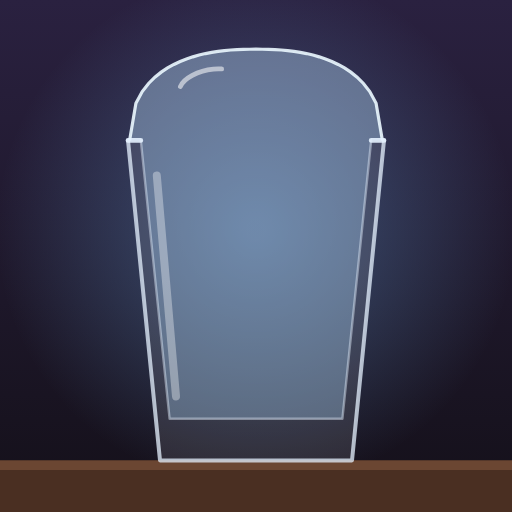
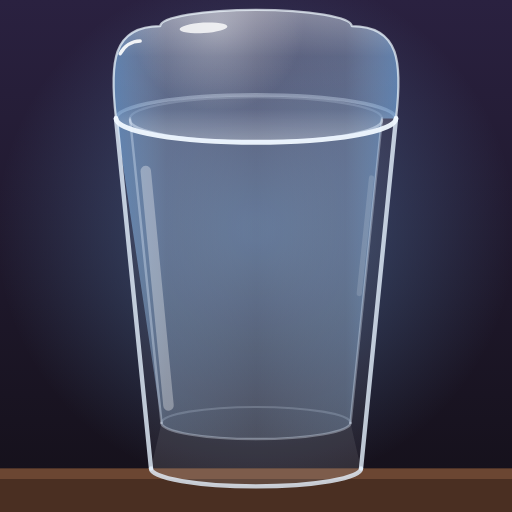
WIP: 表面張力の見た目をリアルに
Claude-Session: https://claude.ai/code/session_014s4K7kJiW8B1DqkZ9hQS7v

Changed region(s): [[0.0, 0.0, 1.0, 0.9688]]

diff --git a/games/vodka-brim/index.html b/games/vodka-brim/index.html
@@ -409,7 +409,7 @@
 
     // ---------- 描画 ----------
     const VW = 400, VH = 520;   // 仮想座標
-    const RIM = 230, BASE = 430, K = 6, K2 = 19; // 縁のy、底のy、縁より下/上の 1mm の大きさ
+    const RIM = 230, BASE = 430, K = 6, K2 = 12; // 縁のy、底のy、縁より下/上の 1mm の大きさ
     function sizeCanvas() {
       const r = stage.getBoundingClientRect(), dpr = window.devicePixelRatio || 1;
       cv.width = Math.max(1, Math.round(r.width * dpr)); cv.height = Math.max(1, Math.round(r.height * dpr));
@@ -436,7 +436,8 @@
       g.fillStyle = '#6b4632'; g.fillRect(-padX, BASE, VW + padX * 2, 8);
 
       const dying = phase === 'spill' || (phase === 'result' && loser >= 0);
-      drawGlassWithLiquid(g, time);
+      // あふれたら盛り上がりがしぼんで縁の高さに戻る
+      drawGlassWithLiquid(g, time, dying ? { level: Math.max(0, level * (1 - deathT / 0.45)), noWobble: true } : {});
       if (dying) drawSpill(g, deathT);
       drawBottle(g);
       if (dying) drawDead(g, deathT);
@@ -451,71 +452,137 @@
       }
     }
 
-    // グラスの内側：y での左右の x
-    const innerHalf = y => 54 + (72 - 54) * (404 - y) / (404 - RIM);
+    // ---------- グラスと液体（少し上から見下ろした形） ----------
+    const E = 0.17;                          // 楕円のつぶれ具合（見下ろす角度）
+    const OUT_T = 80, OUT_B = 60;            // 外側の半幅（縁・底）
+    const IN_T = 72, IN_B = 54, IN_Y = 404;  // 内側の半幅（縁・底）と内底のy
+    const innerHalf = y => IN_B + (IN_T - IN_B) * (IN_Y - y) / (IN_Y - RIM);
+    // 楕円：0=右, PI/2=手前, PI=左, 3PI/2=奥
+    const ell = (g, cy, rx, a0, a1, ccw = false) => g.ellipse(200, cy, rx, rx * E, 0, a0, a1, ccw);
+    function liquidGrad(g) {
+      // ふちが濃く、まん中が薄い（光の屈折で端が暗く見える）
+      const lg = g.createLinearGradient(200 - OUT_T, 0, 200 + OUT_T, 0);
+      lg.addColorStop(0, 'rgba(120,175,230,.62)'); lg.addColorStop(0.18, 'rgba(185,220,252,.30)');
+      lg.addColorStop(0.5, 'rgba(215,236,255,.20)'); lg.addColorStop(0.82, 'rgba(185,220,252,.30)');
+      lg.addColorStop(1, 'rgba(120,175,230,.62)');
+      return lg;
+    }
+    // 縁より上の液面：上はほぼ平ら、肩は丸く、縁の外へ少しはみ出す
+    function domeShape(lv, w, time) {
+      const H = Math.max(0, lv) * K2;
+      const R = Math.min(46, 6 + H * 1.7);                         // 肩の丸み
+      const o = H * 0.07 + w * (1.8 + Math.sin(time * 31) * 1.2);   // 縁からのはみ出し
+      const yt = RIM - H + w * Math.sin(time * 21) * 1.0;
+      const rt = OUT_T - R * 0.55;                                  // 平らな上面の半幅
+      return { H, R, o, yt, rt };
+    }
     function drawGlassWithLiquid(g, time, opt = {}) {
-      const cx = opt.cx ?? 200, lv = opt.level ?? level;
-      g.save(); g.translate(cx - 200, 0);
+      const lv = opt.level ?? level;
+      const hasLiquid = !!game || opt.level !== undefined;
       const w = opt.noWobble ? 0 : wobble(lv);
-      // 液体
-      g.fillStyle = 'rgba(190,225,255,.38)';
-      g.strokeStyle = 'rgba(235,248,255,.9)'; g.lineWidth = 2;
-      if (game || opt.level !== undefined) {
-        if (lv < 0) {
-          const y = RIM - lv * K;
-          if (y < 404) {
-            g.beginPath();
-            g.moveTo(200 - innerHalf(y), y); g.lineTo(200 + innerHalf(y), y);
-            g.lineTo(200 + 54, 404); g.lineTo(200 - 54, 404); g.closePath(); g.fill();
-            // メニスカス（壁ぎわで少し上がる）
-            g.beginPath(); g.moveTo(200 - innerHalf(y), y - 3);
-            g.quadraticCurveTo(200 - innerHalf(y) + 10, y, 200, y);
-            g.quadraticCurveTo(200 + innerHalf(y) - 10, y, 200 + innerHalf(y), y - 3); g.stroke();
-          }
-        } else {
-          // 縁より上：ぷっくりした山
-          const h = lv * K2, half = 79;
-          const jig = (x) => w * (Math.sin(time * 23 + x * 0.09) * 2.2 + Math.sin(time * 37 - x * 0.05) * 1.4);
-          g.beginPath();
-          g.moveTo(200 - 54, 404); g.lineTo(200 - 72, RIM);
-          for (let i = 0; i <= 40; i++) {
-            const u = -1 + i / 20, x = 200 + u * half;
-            const k = Math.pow(Math.max(0, 1 - Math.pow(Math.abs(u), 2.4)), 1 / 2.4);
-            g.lineTo(x, RIM - (h + jig(x) * (h > 4 ? 1 : 0)) * k * (1 + w * 0.04 * Math.sin(time * 19)));
-          }
-          g.lineTo(200 + 72, RIM); g.lineTo(200 + 54, 404); g.closePath(); g.fill();
-          g.beginPath();
-          for (let i = 0; i <= 40; i++) {
-            const u = -1 + i / 20, x = 200 + u * half;
-            const k = Math.pow(Math.max(0, 1 - Math.pow(Math.abs(u), 2.4)), 1 / 2.4);
-            const y = RIM - (h + jig(x) * (h > 4 ? 1 : 0)) * k * (1 + w * 0.04 * Math.sin(time * 19));
-            i ? g.lineTo(x, y) : g.moveTo(x, y);
-          }
-          g.stroke();
-          // ハイライト
-          if (h > 6) {
-            g.strokeStyle = 'rgba(255,255,255,.55)'; g.lineWidth = 3; g.lineCap = 'round';
-            g.beginPath(); g.ellipse(200 - 30, RIM - h * 0.62, 18, Math.max(2, h * 0.15), -0.25, Math.PI * 1.1, Math.PI * 1.7); g.stroke();
+      g.save(); g.lineJoin = 'round'; g.lineCap = 'round';
+
+      // --- グラスの奥側 ---
+      g.fillStyle = 'rgba(255,255,255,.05)';
+      g.beginPath(); g.moveTo(200 - OUT_T, RIM); g.lineTo(200 - OUT_B, BASE); ell(g, BASE, OUT_B, Math.PI, 0, true);
+      g.lineTo(200 + OUT_T, RIM); ell(g, RIM, OUT_T, 0, Math.PI, true); g.fill();
+      g.strokeStyle = 'rgba(230,242,255,.35)'; g.lineWidth = 2;
+      g.beginPath(); ell(g, RIM, OUT_T, Math.PI, Math.PI * 2); g.stroke();
+      g.strokeStyle = 'rgba(230,242,255,.2)'; g.lineWidth = 1.2;
+      g.beginPath(); ell(g, RIM, IN_T, Math.PI, Math.PI * 2); g.stroke();
+      g.beginPath(); ell(g, IN_Y, IN_B, Math.PI, Math.PI * 2); g.stroke();
+
+      // --- 液体 ---
+      if (hasLiquid && lv < 0) {
+        const y = RIM - lv * K;
+        if (y < IN_Y - 1) {
+          const rx = innerHalf(y);
+          g.fillStyle = liquidGrad(g);
+          g.beginPath(); g.moveTo(200 - rx, y); ell(g, y, rx, Math.PI, Math.PI * 2);
+          g.lineTo(200 + IN_B, IN_Y); ell(g, IN_Y, IN_B, 0, Math.PI); g.closePath(); g.fill();
+          // 液面（上から見える面）
+          g.fillStyle = 'rgba(225,242,255,.16)';
+          g.beginPath(); ell(g, y, rx, 0, Math.PI * 2); g.fill();
+          // メニスカス：壁ぎわで液が少しはい上がり、光る輪になる
+          const m = clamp(-lv / 0.8, 0.2, 1);
+          g.strokeStyle = `rgba(240,250,255,${0.6 * m})`; g.lineWidth = 1.6;
+          g.beginPath(); ell(g, y - 1.5 * m, rx, 0, Math.PI * 2); g.stroke();
+          g.strokeStyle = `rgba(240,250,255,${0.18 * m})`; g.lineWidth = 3;
+          g.beginPath(); ell(g, y, rx - 5, Math.PI * 1.1, Math.PI * 1.9); g.stroke();
+        }
+      } else if (hasLiquid) {
+        const d = domeShape(lv, w, time);
+        // 盛り上がりの輪郭（左の肩 → 奥 → 右の肩）
+        const domePath = () => {
+          g.moveTo(200 - OUT_T, RIM);
+          g.bezierCurveTo(200 - OUT_T - d.o, RIM - d.H * 0.6, 200 - d.rt - d.R * 0.6, d.yt, 200 - d.rt, d.yt);
+          ell(g, d.yt, d.rt, Math.PI, Math.PI * 2);
+          g.bezierCurveTo(200 + d.rt + d.R * 0.6, d.yt, 200 + OUT_T + d.o, RIM - d.H * 0.6, 200 + OUT_T, RIM);
+        };
+        // グラスの中と盛り上がりを1つの形で塗る（重ね塗りで濃くならないように）
+        g.fillStyle = liquidGrad(g);
+        g.beginPath(); g.moveTo(200 - IN_B, IN_Y); g.lineTo(200 - IN_T, RIM);
+        domePath();
+        g.lineTo(200 + IN_T, RIM); g.lineTo(200 + IN_B, IN_Y); ell(g, IN_Y, IN_B, 0, Math.PI);
+        g.closePath(); g.fill();
+        if (d.H > 0.8) {
+          // 盛り上がりの中：上が明るく、縁の近くでまた光る（レンズのような見え方）
+          g.save();
+          g.beginPath(); domePath(); ell(g, RIM, OUT_T, 0, Math.PI); g.closePath(); g.clip();
+          const vg = g.createLinearGradient(0, d.yt - d.rt * E, 0, RIM + OUT_T * E);
+          vg.addColorStop(0, 'rgba(255,255,255,.30)'); vg.addColorStop(0.35, 'rgba(255,255,255,.04)');
+          vg.addColorStop(0.75, 'rgba(255,255,255,.02)'); vg.addColorStop(1, 'rgba(255,255,255,.28)');
+          g.fillStyle = vg; g.fillRect(0, d.yt - 100, 400, d.H + 200);
+          // 上面に映る照明（ぼんやり＋くっきりの2つ）
+          const sp = g.createRadialGradient(200 - 22, d.yt, 1, 200 - 22, d.yt, d.rt * 0.9);
+          sp.addColorStop(0, 'rgba(255,255,255,.35)'); sp.addColorStop(1, 'rgba(255,255,255,0)');
+          g.fillStyle = sp; g.fillRect(0, d.yt - 100, 400, d.H + 200);
+          g.restore();
+          g.fillStyle = 'rgba(255,255,255,.8)';
+          g.beginPath(); g.ellipse(200 - 30, d.yt + 1, Math.min(18, d.rt * 0.25), Math.max(1, Math.min(3, d.H * 0.12)), -0.06, 0, Math.PI * 2); g.fill();
+          // 輪郭のふちに細い光（表面張力で張った膜のように見える）
+          g.strokeStyle = 'rgba(240,250,255,.7)'; g.lineWidth = 1.3;
+          g.beginPath(); domePath(); g.stroke();
+          // 左の肩に光の点
+          g.strokeStyle = 'rgba(255,255,255,.9)'; g.lineWidth = 2;
+          g.beginPath(); g.ellipse(200 - OUT_T + d.R * 0.32 - d.o * 0.3, RIM - d.H * 0.58, Math.max(1.5, d.R * 0.28), Math.max(1.5, d.H * 0.26), 0.25, Math.PI * 1.08, Math.PI * 1.42); g.stroke();
+        }
+        // 限界が近いと、上面にさざ波
+        if (w > 0.02) {
+          for (let k = 0; k < 3; k++) {
+            const ph = (time * 1.6 + k / 3) % 1;
+            g.strokeStyle = `rgba(255,255,255,${w * (1 - ph) * 0.5})`; g.lineWidth = 1;
+            g.beginPath(); ell(g, d.yt, Math.max(1, d.rt * ph), 0, Math.PI * 2); g.stroke();
           }
         }
       }
-      // グラス
-      g.lineJoin = 'round';
-      g.fillStyle = 'rgba(255,255,255,.10)';
-      g.beginPath(); g.moveTo(200 - 80, RIM); g.lineTo(200 - 60, BASE); g.lineTo(200 + 60, BASE); g.lineTo(200 + 80, RIM);
-      g.lineTo(200 + 72, RIM); g.lineTo(200 + 54, 404); g.lineTo(200 - 54, 404); g.lineTo(200 - 72, RIM); g.closePath(); g.fill();
-      g.strokeStyle = 'rgba(230,242,255,.75)'; g.lineWidth = 2.5;
-      g.beginPath(); g.moveTo(200 - 80, RIM); g.lineTo(200 - 60, BASE); g.lineTo(200 + 60, BASE); g.lineTo(200 + 80, RIM); g.stroke();
-      g.lineWidth = 1.5; g.strokeStyle = 'rgba(230,242,255,.45)';
-      g.beginPath(); g.moveTo(200 - 72, RIM); g.lineTo(200 - 54, 404); g.lineTo(200 + 54, 404); g.lineTo(200 + 72, RIM); g.stroke();
-      g.strokeStyle = 'rgba(230,242,255,.9)'; g.lineWidth = 3; g.lineCap = 'round';
-      g.beginPath(); g.moveTo(200 - 80, RIM); g.lineTo(200 - 72, RIM); g.moveTo(200 + 72, RIM); g.lineTo(200 + 80, RIM); g.stroke();
-      g.strokeStyle = 'rgba(255,255,255,.35)'; g.lineWidth = 5;
-      g.beginPath(); g.moveTo(200 - 62, RIM + 22); g.lineTo(200 - 50, BASE - 40); g.stroke();
-      // 縁の線（0mm の目印）
+
+      // --- グラスの手前側 ---
+      g.strokeStyle = 'rgba(230,242,255,.35)'; g.lineWidth = 1.4;
+      g.beginPath(); g.moveTo(200 - IN_T, RIM); g.lineTo(200 - IN_B, IN_Y); g.moveTo(200 + IN_T, RIM); g.lineTo(200 + IN_B, IN_Y); g.stroke();
+      g.beginPath(); ell(g, IN_Y, IN_B, Math.PI, 0, true); g.stroke();
+      // 厚い底
+      g.fillStyle = 'rgba(255,255,255,.08)';
+      g.beginPath(); g.moveTo(200 - IN_B, IN_Y); ell(g, IN_Y, IN_B, Math.PI, 0, true); g.lineTo(200 + OUT_B, BASE);
+      ell(g, BASE, OUT_B, 0, Math.PI); g.closePath(); g.fill();
+      // 外側の輪郭
+      g.strokeStyle = 'rgba(230,242,255,.8)'; g.lineWidth = 2.5;
+      g.beginPath(); g.moveTo(200 - OUT_T, RIM); g.lineTo(200 - OUT_B, BASE); g.moveTo(200 + OUT_T, RIM); g.lineTo(200 + OUT_B, BASE); g.stroke();
+      g.beginPath(); ell(g, BASE, OUT_B, Math.PI, 0, true); g.stroke();
+      // 手前の縁（厚みのある口）
+      g.strokeStyle = 'rgba(240,248,255,.95)'; g.lineWidth = 2.8;
+      g.beginPath(); ell(g, RIM, OUT_T, Math.PI, 0, true); g.stroke();
+      g.strokeStyle = 'rgba(230,242,255,.45)'; g.lineWidth = 1.4;
+      g.beginPath(); ell(g, RIM + 1, IN_T, Math.PI, 0, true); g.stroke();
+      // ガラスの映り込み
+      g.strokeStyle = 'rgba(255,255,255,.32)'; g.lineWidth = 6;
+      g.beginPath(); g.moveTo(200 - 63, RIM + 30); g.lineTo(200 - 50, BASE - 36); g.stroke();
+      g.strokeStyle = 'rgba(255,255,255,.14)'; g.lineWidth = 3;
+      g.beginPath(); g.moveTo(200 + 66, RIM + 34); g.lineTo(200 + 59, RIM + 100); g.stroke();
+      // 縁の高さの目印（0mm）
       if (!opt.noRuler) {
         g.setLineDash([5, 6]); g.strokeStyle = 'rgba(255,200,120,.55)'; g.lineWidth = 1.5;
-        g.beginPath(); g.moveTo(200 - 130, RIM); g.lineTo(200 - 86, RIM); g.moveTo(200 + 86, RIM); g.lineTo(200 + 130, RIM); g.stroke();
+        g.beginPath(); g.moveTo(200 - 130, RIM); g.lineTo(200 - 88, RIM); g.moveTo(200 + 88, RIM); g.lineTo(200 + 130, RIM); g.stroke();
         g.setLineDash([]);
       }
       g.restore();
@@ -558,22 +625,26 @@
       drops = drops.filter(d => tipY + d.y < surfaceY());
     }
 
-    // あふれる
+    // あふれる：左の縁から一気に流れ落ち、盛り上がりがしぼむ
     function drawSpill(g, tt) {
-      const p = clamp(tt / 1.0, 0, 1);
-      g.fillStyle = 'rgba(190,225,255,.5)';
-      for (const side of [-1, 1]) {
-        const x0 = 200 + side * 80, x1 = 200 + side * 60;
-        const yEnd = RIM + (BASE - RIM) * Math.min(1, p * 2);
-        g.beginPath(); g.moveTo(x0, RIM - 2);
-        g.lineTo(x0 + side * 6, RIM + 4);
-        g.lineTo(x0 + (x1 - x0) * (yEnd - RIM) / (BASE - RIM) + side * 6, yEnd);
-        g.lineTo(x0 + (x1 - x0) * (yEnd - RIM) / (BASE - RIM), yEnd);
-        g.closePath(); g.fill();
-      }
-      if (p > 0.45) {
-        const q = (p - 0.45) / 0.55;
-        g.beginPath(); g.ellipse(200, BASE + 6, 70 + q * 110, 5 + q * 6, 0, 0, 7); g.fill();
+      const p = clamp(tt / 0.55, 0, 1), q = clamp((tt - 0.3) / 0.8, 0, 1);
+      const yEnd = RIM + (BASE - RIM) * p;
+      const wx = y => 200 - OUT_T + (OUT_T - OUT_B) * (y - RIM) / (BASE - RIM); // 外壁の x
+      g.fillStyle = 'rgba(175,215,250,.55)';
+      g.beginPath();
+      g.moveTo(wx(RIM) + 12, RIM - 2);
+      g.quadraticCurveTo(wx(RIM) - 10, RIM - 4, wx(RIM) - 6, RIM + 12);
+      g.lineTo(wx(yEnd) - 5, yEnd);
+      g.lineTo(wx(yEnd) + 3, yEnd);
+      g.lineTo(wx(RIM + 14) + 4, RIM + 14);
+      g.closePath(); g.fill();
+      g.strokeStyle = 'rgba(255,255,255,.55)'; g.lineWidth = 1.2;
+      g.beginPath(); g.moveTo(wx(RIM) - 5, RIM + 10); g.lineTo(wx(yEnd) - 4, yEnd); g.stroke();
+      if (q > 0) {
+        g.fillStyle = 'rgba(175,215,250,.42)';
+        g.beginPath(); g.ellipse(170 - q * 20, BASE + 5, 24 + q * 120, 3 + q * 7, 0, 0, Math.PI * 2); g.fill();
+        g.strokeStyle = 'rgba(255,255,255,.35)'; g.lineWidth = 1;
+        g.beginPath(); g.ellipse(170 - q * 20, BASE + 5, 24 + q * 120, 3 + q * 7, 0, Math.PI * 1.1, Math.PI * 1.9); g.stroke();
       }
     }
 
